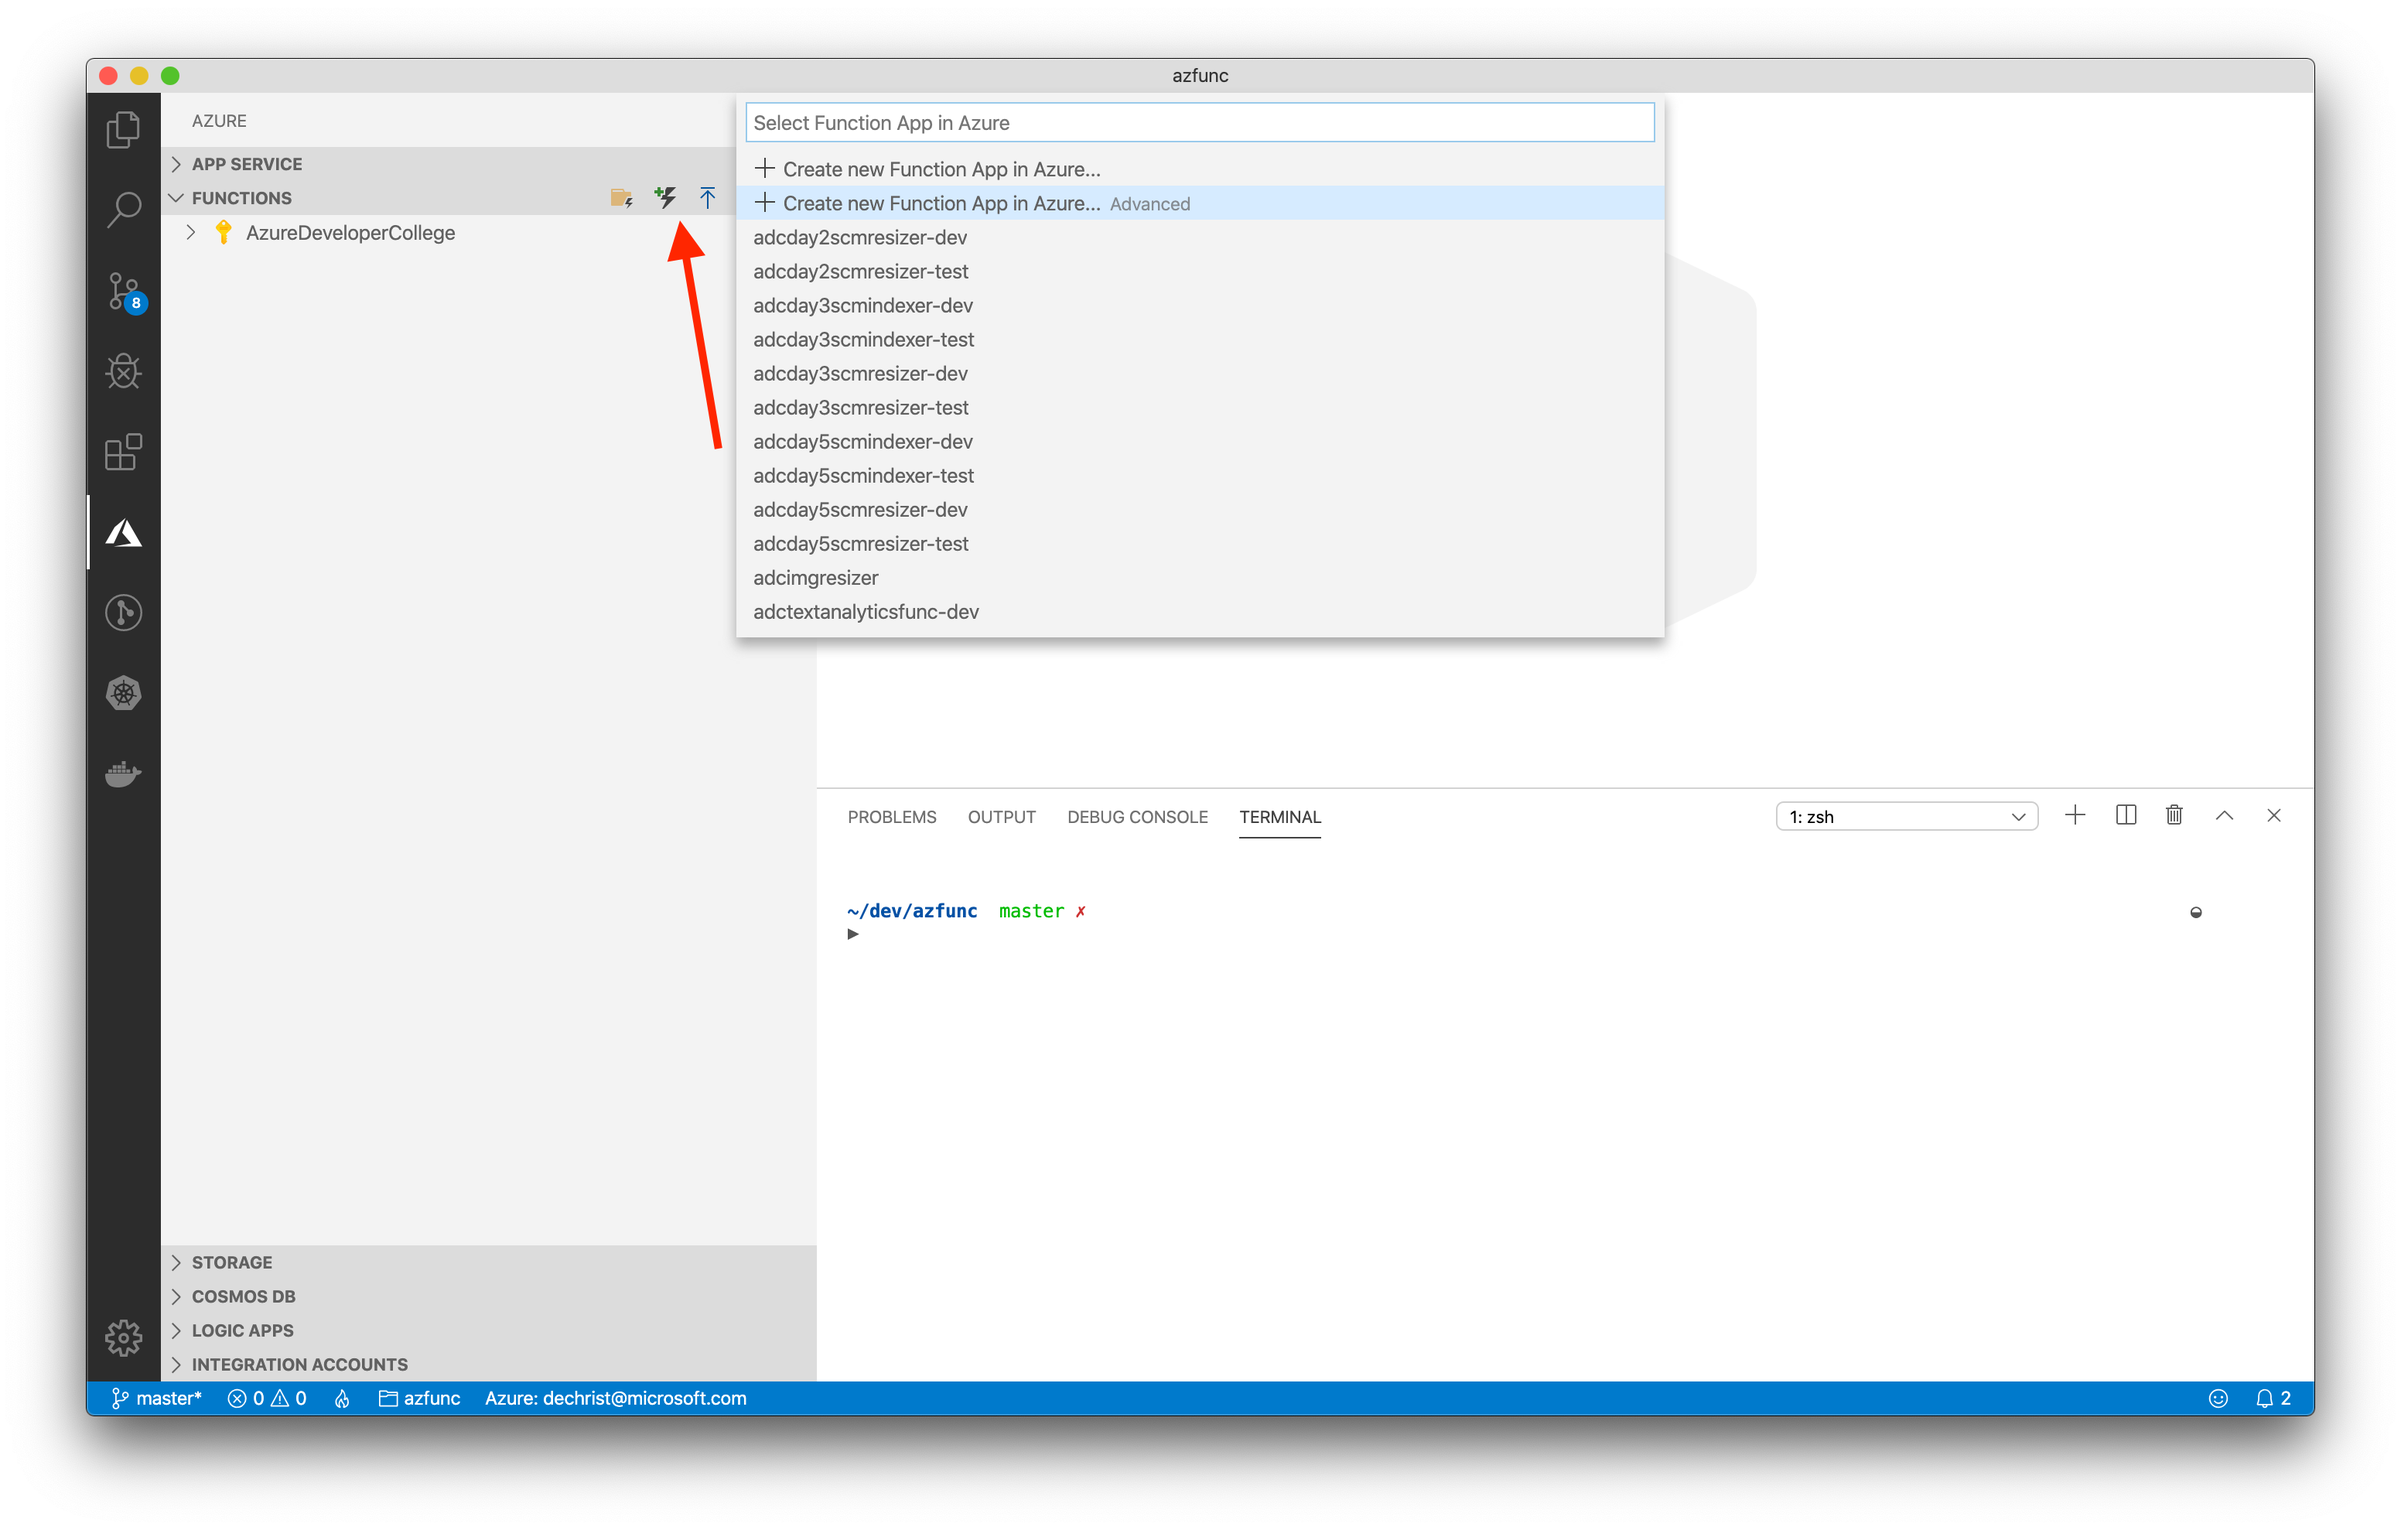
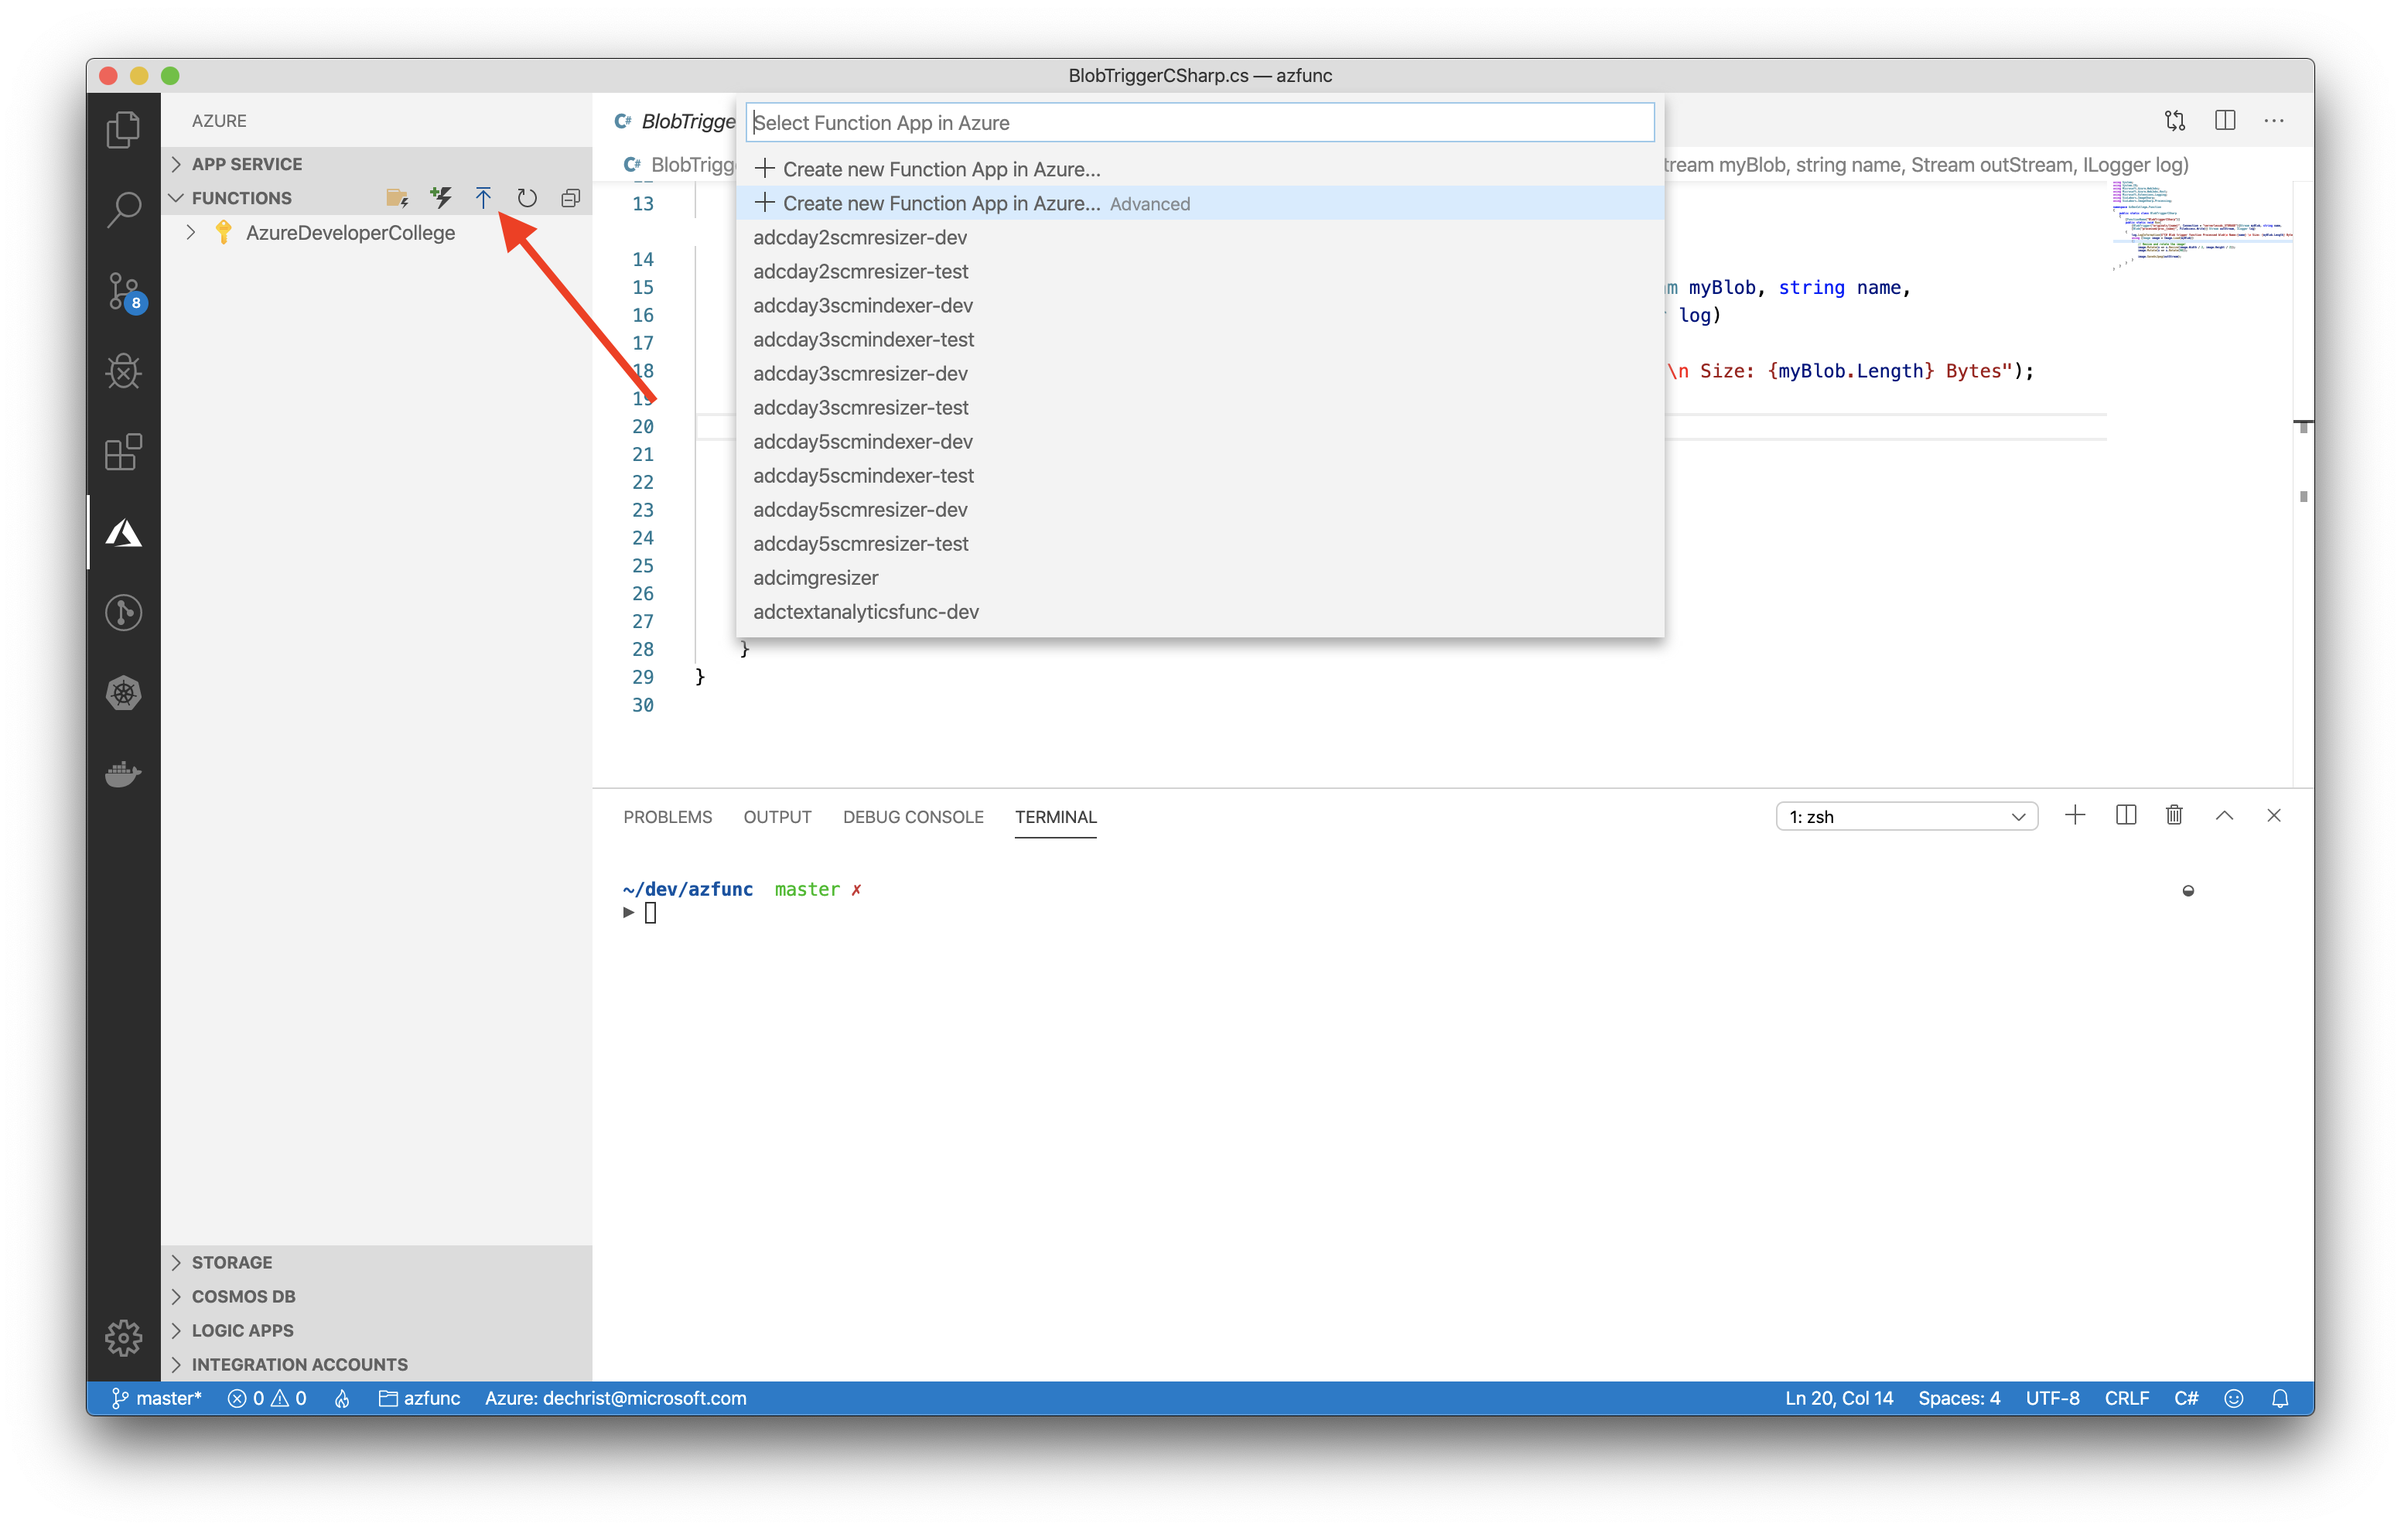
Finish day2 / challenge 2

diff --git a/day2/challenges/challenge-2.md b/day2/challenges/challenge-2.md
@@ -2,4 +2,182 @@
 
 ## Here is what you will learn ##
 
-- xyz
+- Create an Azure Function on your local machine
+- Learn how to debug Azure Functions
+- Learn how to use Function Triggers to react to event in Azure
+- Deploy Azure Functions
+
+## Create a local Azure Function ##
+
+To get familiar with Azure Functions on your local machine, we will be creating a sample that listens for files on an Azure Storage Account (Blob). Each time a new file will be added to a predefined container, our Function will be called by Azure, giving us the opportunity to manipulate the file and save it to another location.
+
+So, first of all, we need  to create a Storage Account to being able to upload/process files.
+
+### Add a Storage Account ###
+
+Go to the Azure Portal and click on **"Create a resource"**, in the next view choose/search for **"Storage Account"** and afterwards click *create*.
+
+Follow the wizard:
+
+- give your account a global unique name
+- For Location, choose "West Europe"
+- Performance Tier: Standard
+- Account Kind: Storage V2 (General Purpose)
+- Replication: Locally-redundant storage (LRS)
+- Access Tier: Hot
+
+Leave any other options to their defaults. In the summary view, it should look like that:
+
+![create](./img/portal_storageaccount.png "create")
+
+Proceed and create the Storage Account.
+
+When the deployment has finished, go to the storage account and open "Containers" (under "Blob service") and create a container called *originals* and another one called *processed* (leave the proposed settings for **Public Access Level** - *Private*).
+
+The infrastructure to store files is now ready. Let's create the local Azure Function.
+
+### Create the local Function App ###
+
+Open Visual Studio Code and switch to the Azure Tools Exentsion. In the section for "Functions", click on "Create New Project":
+
+![func_create](./img/function_create.png "func_create")
+
+The Wizard will guide you through the local setup process.
+
+Choose the following options:
+- Language: C#
+![functions_wizard1](./img/functions_wizard1.png "functions_wizard1")
+- Template: BlobTrigger
+![functions_wizard2](./img/functions_wizard2.png "functions_wizard2")
+- Function Name: BlobTriggerCSharp
+![functions_wizard3](./img/functions_wizard3.png "functions_wizard3")
+- Namespace: AzDevCollege.Function
+![functions_wizard4](./img/functions_wizard4.png "functions_wizard4")
+- Settings: Create new local app setting
+![functions_wizard5](./img/functions_wizard5.png "functions_wizard5")
+- Storage Account: select the storage account you created previously
+![functions_wizard6](./img/functions_wizard6.png "functions_wizard6")
+- Trigger Path (the container name we want to listen to for new files): originals
+![functions_wizard7](./img/functions_wizard7.png "functions_wizard7")
+- Debug: select the same storage account as above
+
+When everything is setup in VS Code, let's test the function.
+
+Open *BlobTriggerCSharp.cs* file and set a breakpoint in the "*Run*" method.
+
+Start the Azure Function by hitting **F5**.
+
+The debug console should print logs like that:
+
+```
+> Executing task: func host start <
+
+
+                  %%%%%%
+                 %%%%%%
+            @   %%%%%%    @
+          @@   %%%%%%      @@
+       @@@    %%%%%%%%%%%    @@@
+     @@      %%%%%%%%%%        @@
+       @@         %%%%       @@
+         @@      %%%       @@
+           @@    %%      @@
+                %%
+                %
+
+Azure Functions Core Tools (2.7.1948 Commit hash: 29a0626ded3ae99c4111f66763f27bb9fb564103)
+Function Runtime Version: 2.0.12888.0
+```
+
+Now, open the Azure Storage Explorer, find your storage account and select the *originals* container (alternatively: go to the Portal and open the "Storage Explorer" in the Storage Account). 
+
+![storage_explorer_view](./img/storage_explorer_view.png "storage_explorer_view")
+
+Drag'n Drop a file to the container or upload one via the menu. After a few seconds, the breakpoint in VS Code will be hit. Examine the properties of the **myBlob** variable.
+
+### Adjusting the Sample ###
+
+So, great, we can now receive events when a file is added to blob storage. Let's add a more meaningful sample. We want to receive images that we will be resizing/manipulating in our Function and write the result to the *processed* container. 
+
+Therfore, we need to add a dependency to our project that enables us to do image manipulation in dotnet core. We will use **SixLabors.ImageSharp** <https://github.com/SixLabors/ImageSharp>. Open a terminal and go to your projects folder. Add the library:
+
+```shell
+$ dotnet add azfunc.csproj package SixLabors.ImageSharp -v 1.0.0-beta0007
+```
+
+Now, back in Visual Studio Code, replace the contents of the file **BlobTriggerCSharp.cs** with:
+
+```csharp
+using System;
+using System.IO;
+using Microsoft.Azure.WebJobs;
+using Microsoft.Azure.WebJobs.Host;
+using Microsoft.Extensions.Logging;
+using SixLabors.ImageSharp;
+using SixLabors.ImageSharp.Processing;
+
+namespace AzDevCollege.Function
+{
+    public static class BlobTriggerCSharp
+    {
+        [FunctionName("BlobTriggerCSharp")]
+        public static void Run(
+            [BlobTrigger("originals/{name}", Connection = "serverlessdc_STORAGE")]Stream myBlob, string name,
+            [Blob("processed/proc_{name}", FileAccess.Write)] Stream outStream, ILogger log)
+        {
+            using (Image image = Image.Load(myBlob))
+            {
+                // Resize and rotate the image!
+                image.Mutate(x => x.Resize(image.Width / 2, image.Height / 2));
+                image.Mutate(x => x.Rotate(90));
+
+                image.SaveAsJpeg(outStream);
+            }
+            log.LogInformation($"C# Blob trigger function Processed blob\n Name:{name} \n Size: {myBlob.Length} Bytes");
+        }
+    }
+}
+```
+
+What has been added to the **Run** method:
+
+- **[Blob("processed/proc_{name}", FileAccess.Write)] Stream outStream** parameter to automatically write the results of the image manipulation to a blob in the container *processed* having the same file name, prefixed with "proc". This is called an **Output Binding**. For more information, see <https://docs.microsoft.com/en-us/azure/azure-functions/functions-bindings-storage-blob?tabs=csharp#output>
+- Code to manipulate the input image in the *using* statement
+
+Now restart the local Azure Function and when the function is ready to accept calls, again go to the Storage Explorer and drag an **image** (! - please use an image!) to the folder **orginals**. A few seconds later, you will see that the Azure Function has been triggered. 
+
+Now check the *processed* container. You will find a new **proc_** image with the results of our manipulation.
+
+If everything works as expected on your local machine, let's deploy to Azure.
+
+## Deploy an Azure Function App to Azure ##
+
+Go to the Azure Tools Extension and click on the "Deploy to Azure..." button in the "Functions" section. A wizard will guid you through the creation process (as you are now already familiar with). 
+**Important**: choose the **Advanced** mode.
+
+![functions_deploy_wizard1](./img/functions_deploy_wizard1.png "functions_deploy_wizard1")
+
+Choose the following options, when asked:
+
+- OS: Windows
+- Hosting Plan: Consumption
+- Runtime: .NET
+- You can skip the creation of an Application Insights instance
+
+We still have to configure our Functions App, to be able to listen to blob changes in the Storage Account (BlobTrigger information). Therefore, got to the Portal and open the Functions App you previously created.
+Open the Application settings under **Configuration** and add a new application setting (**you can check your *local.settings.json* file for the correct values!**):
+
+Name: 
+- \<storageaccountname>_STORAGE
+Value:
+- <key_for_storage_account>
+
+Afterwards, it should like that:
+
+![azure_function_settings](./img/azure_function_settings.png "azure_function_settings")
+
+Now, test again (upload images) and check, if the Function App is running correctly Azure. 
+
+## House Keeping ##
+
+Remove the sample resource group.
